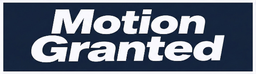
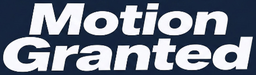
Square MG badge with larger wordmark; drop LSU gold outline
Reverts the wide MG timeline badge. mg-badge.png is re-cropped to just
the 'Motion Granted' wordmark (no white frame) and fills the square
badge edge to edge, on the logo's own navy. The LSU badge border is now
purple instead of gold.

diff --git a/website-design-and-github-hosting/porter-website/styles.css b/website-design-and-github-hosting/porter-website/styles.css
@@ -418,14 +418,12 @@ section + section {
     top: 0;
 }
 
-/* Wider badge so the Motion Granted wordmark is legible; stays centered on the line */
-.timeline-dot.is-mg {
-    width: 68px;
-    left: -12px;
-    padding: 2px 4px;
+/* Let the Motion Granted wordmark fill its square badge */
+.company-logo.is-mg {
+    padding: 2px;
 }
 
-.timeline-dot.is-mg img {
+.company-logo.is-mg img {
     width: 100%;
     height: auto;
 }
@@ -636,13 +634,13 @@ section + section {
 
 .company-logo.is-lsu {
     background: #461d7c;
-    border-color: #fdd023;
+    border-color: #461d7c;
     color: #fdd023;
     font-weight: 600;
 }
 
 .company-logo.is-mg {
-    background: var(--accent-deep);
+    background: #16253c;
     border-color: #2c4273;
 }
 
@@ -700,11 +698,6 @@ footer {
     .timeline-item,
     .timeline-cta {
         padding-left: 3.75rem;
-    }
-
-    .timeline-dot.is-mg {
-        width: 58px;
-        left: -7px;
     }
 
     .skills-card {
